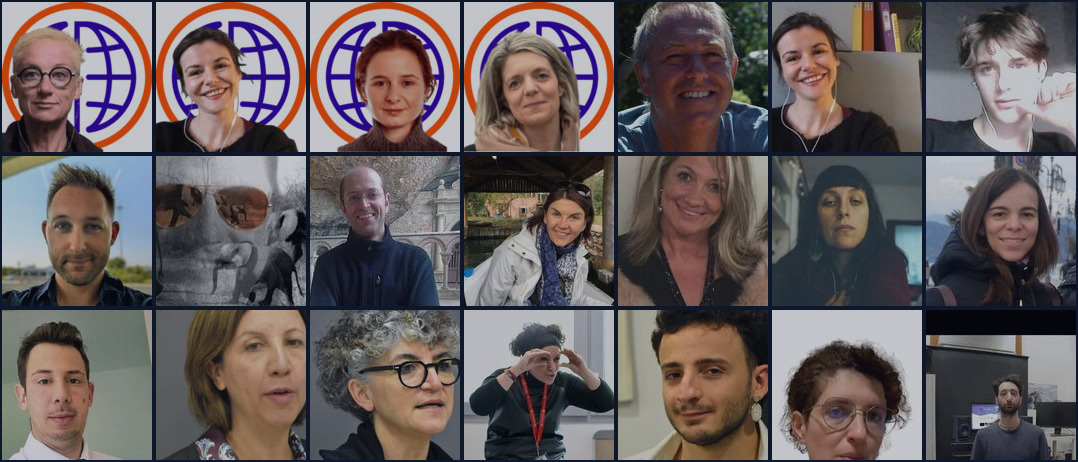
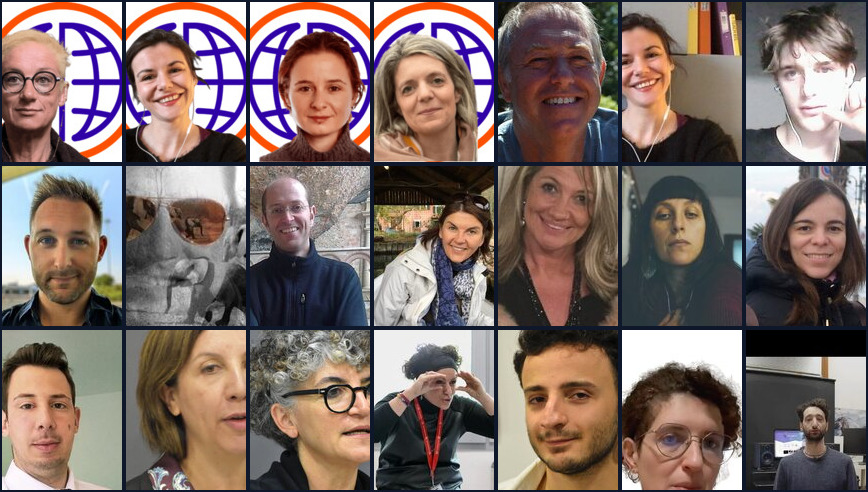
Show all staff members on the about us page
Update the team image display to show all 21 staff members by changing the image container's height and gradient overlay in `chi-siamo.tsx`.

Replit-Commit-Author: Agent
Replit-Commit-Session-Id: f78e305e-1717-4fc9-9bd7-cca699d54e05
Replit-Commit-Checkpoint-Type: full_checkpoint
Replit-Commit-Event-Id: 3a9ad07b-f21c-43bf-a884-4bb15fdc7a80
Replit-Commit-Screenshot-Url: https://storage.googleapis.com/screenshot-production-us-central1/51649c3e-5363-431a-b1ff-79c558d0c8a6/f78e305e-1717-4fc9-9bd7-cca699d54e05/JWhqE9s
Replit-Helium-Checkpoint-Created: true

diff --git a/client/src/pages/chi-siamo.tsx b/client/src/pages/chi-siamo.tsx
@@ -193,12 +193,12 @@ export default function ChiSiamoPage() {
                 <img 
                   src={aboutTeamImage} 
                   alt="Il nostro team" 
-                  className="w-full h-[400px] object-cover"
+                  className="w-full h-auto"
                   loading="lazy"
                   decoding="async"
                 />
-                <div className="absolute inset-0 bg-gradient-to-t from-black/60 via-transparent to-transparent" />
-                <div className="absolute bottom-6 left-6 right-6">
+                <div className="absolute inset-0 bg-gradient-to-t from-black/70 via-black/10 to-transparent" />
+                <div className="absolute bottom-4 left-4 right-4">
                   <p className="text-white text-lg font-medium">
                     Un team di esperti al tuo servizio
                   </p>
